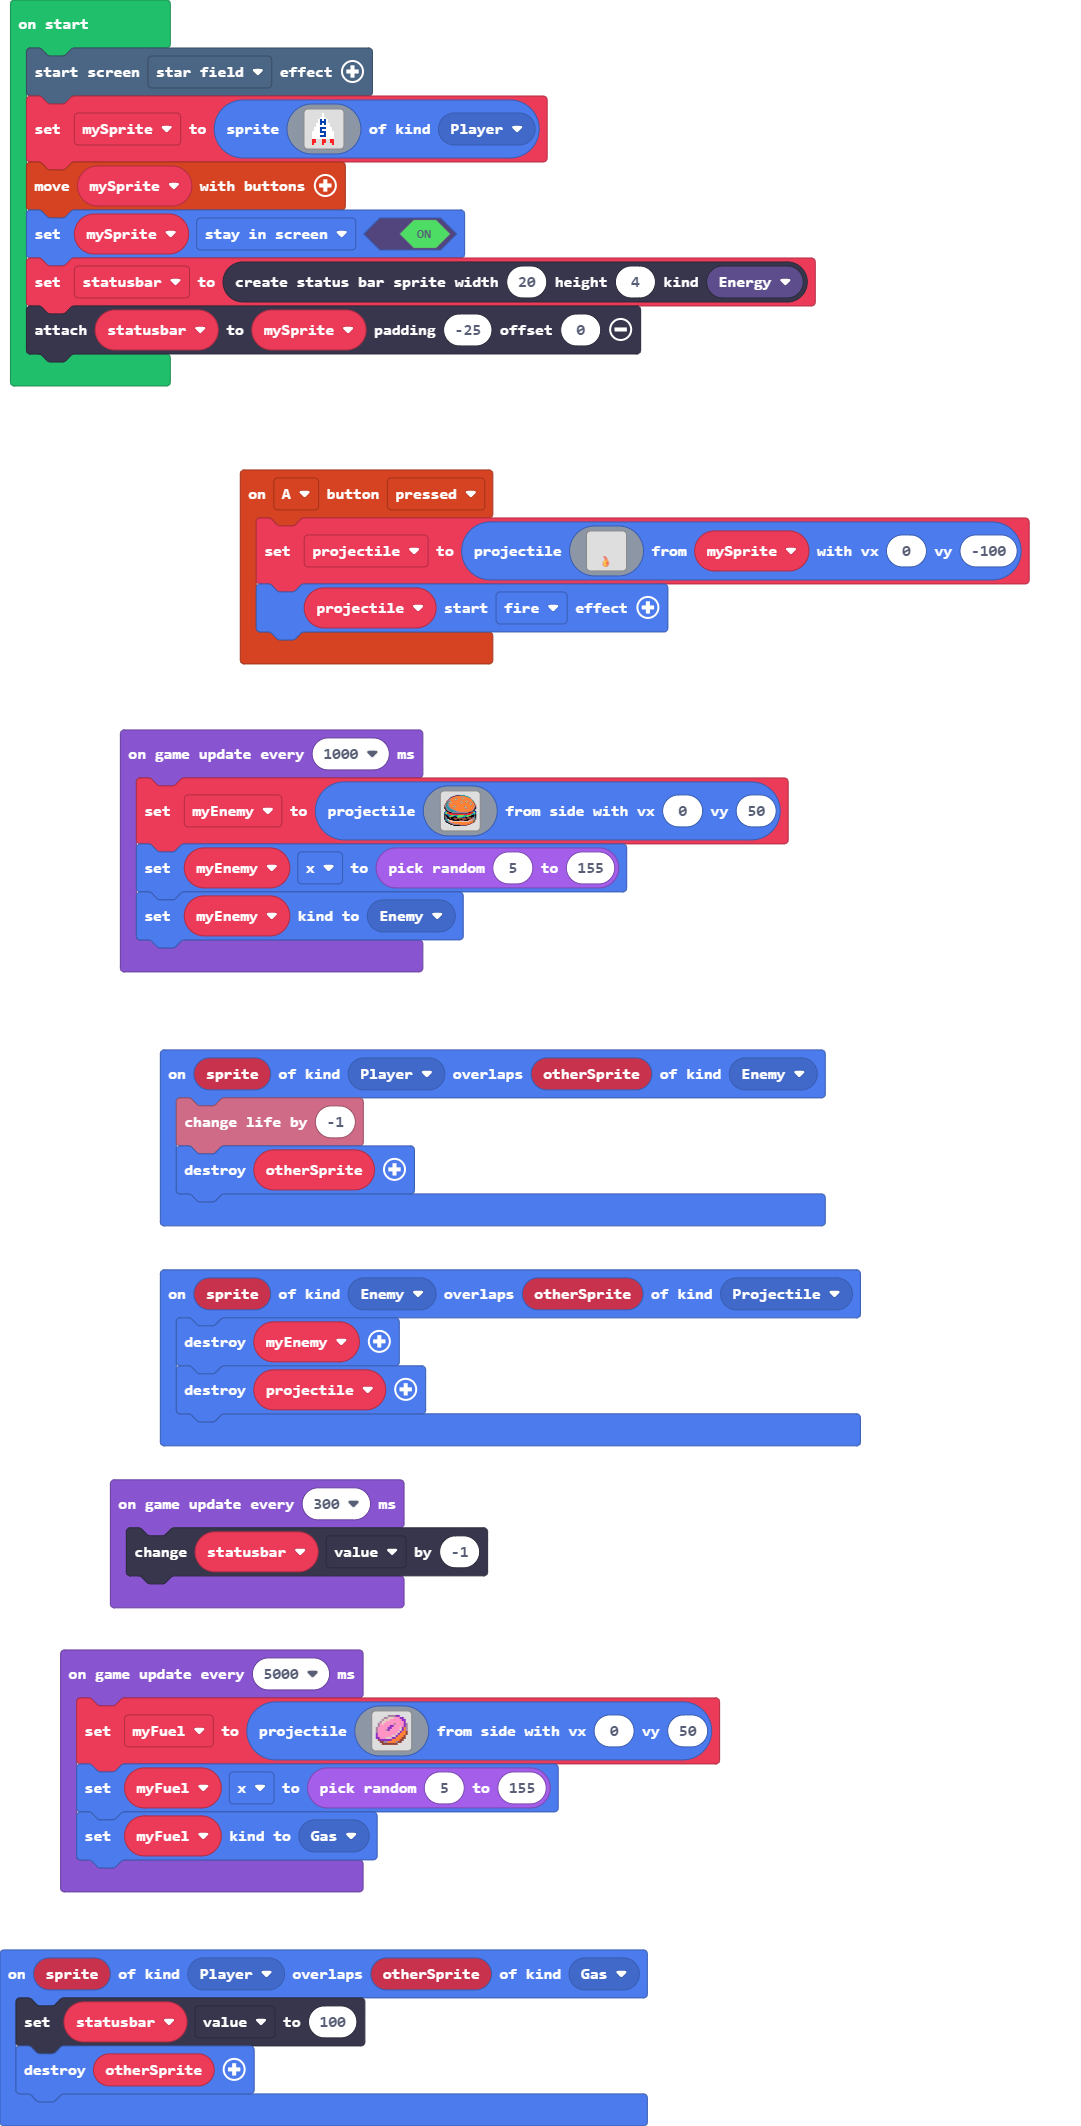
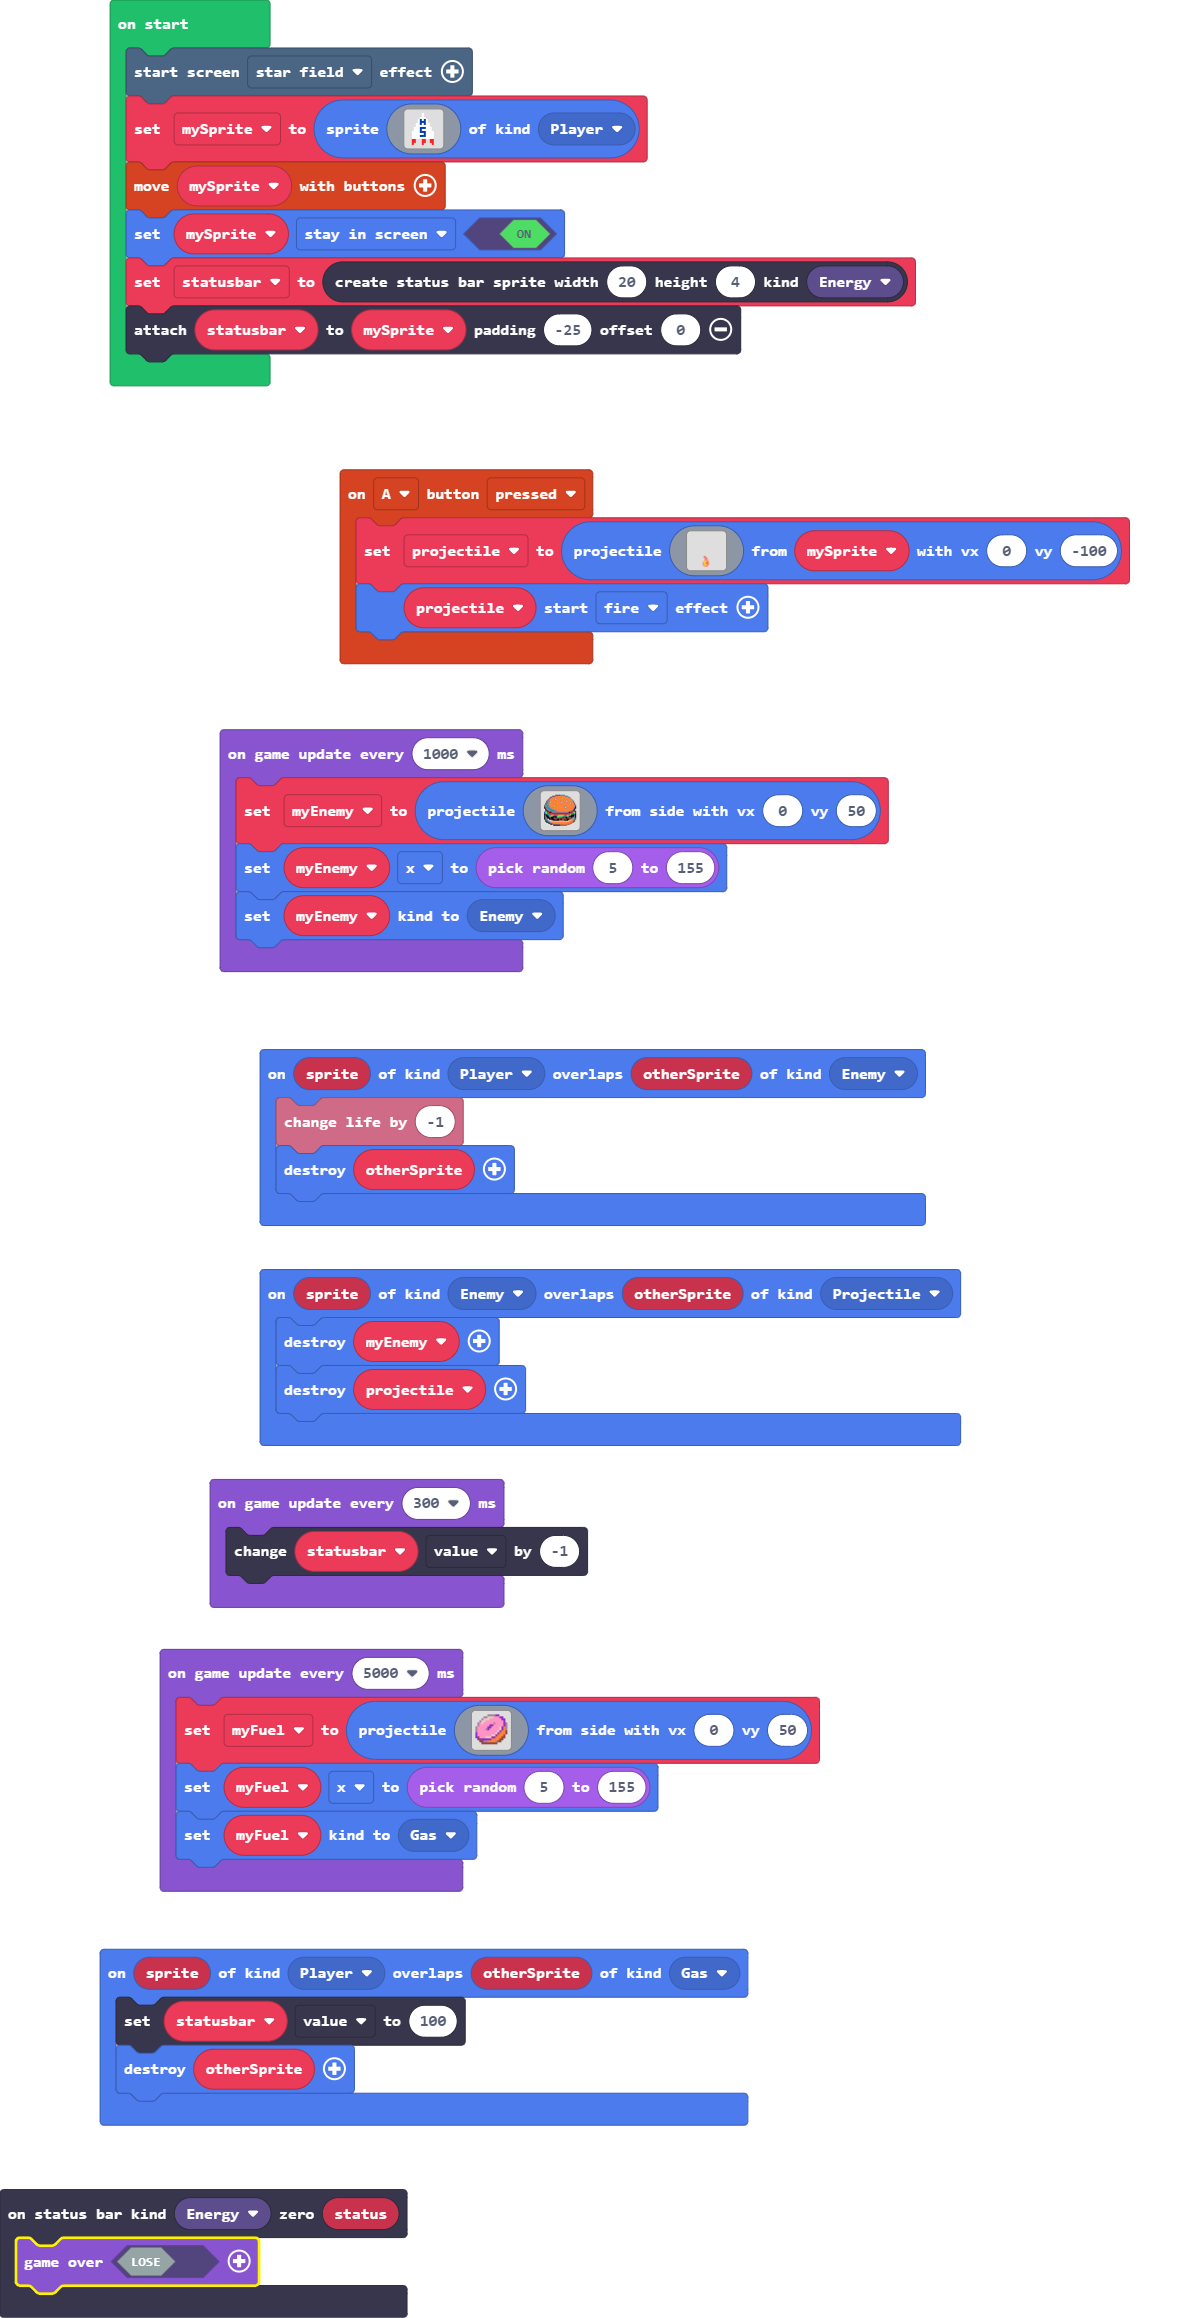
you lose appears after fuel has run out

diff --git a/main.ts b/main.ts
@@ -62,6 +62,9 @@ sprites.onOverlap(SpriteKind.Player, SpriteKind.Gas, function (sprite, otherSpri
     statusbar.value = 100
     otherSprite.destroy()
 })
+statusbars.onZero(StatusBarKind.Energy, function (status) {
+    game.over(false)
+})
 sprites.onOverlap(SpriteKind.Player, SpriteKind.Enemy, function (sprite, otherSprite) {
     info.changeLifeBy(-1)
     otherSprite.destroy()
